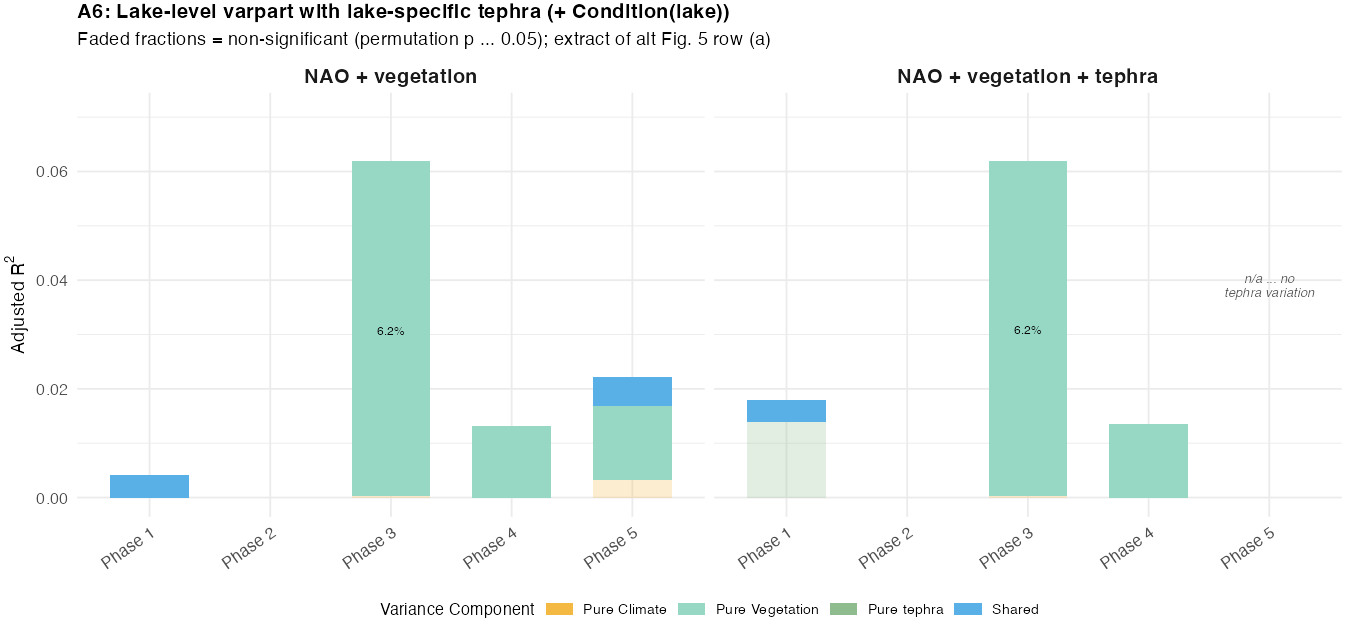
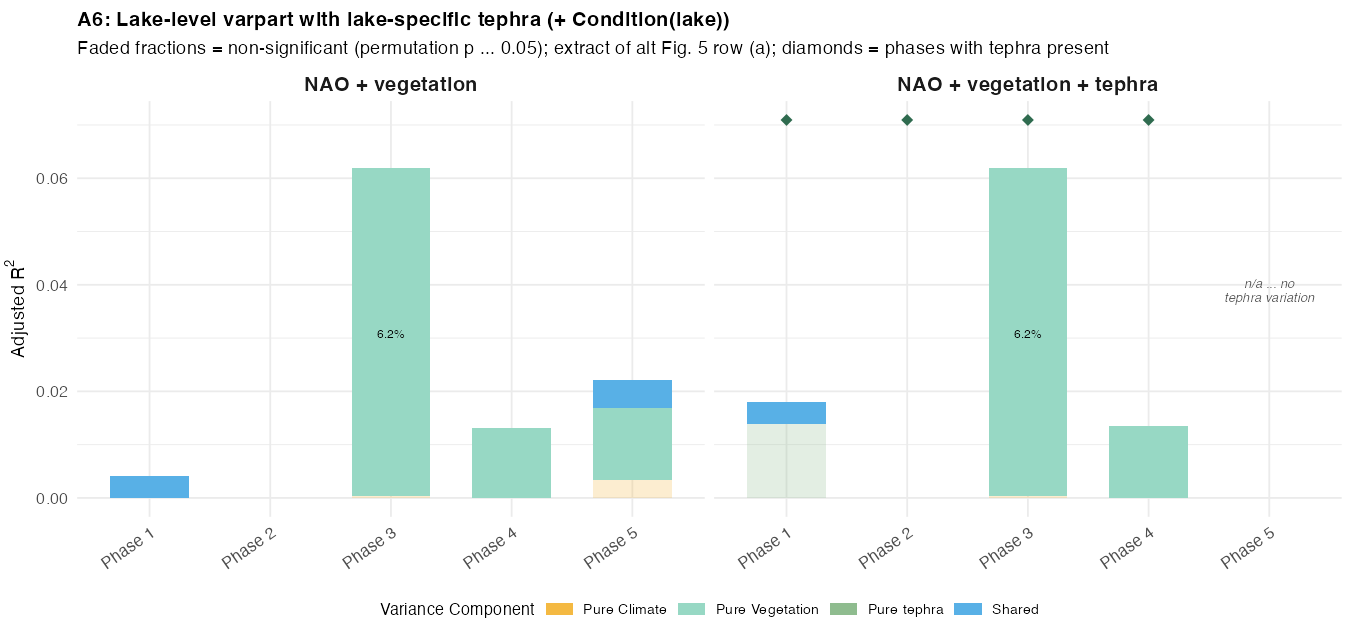
Mark tephra presence with top ticks instead of grey n/a bands.
Replace full-height invariant-tephra grey bars on A6 alt Fig. 5 with
right-panel presence markers (phase diamonds; age ticks) so empty panels
are not confused with null effects.

diff --git a/outputs/revision/REVISION_RESULTS_SUMMARY.md b/outputs/revision/REVISION_RESULTS_SUMMARY.md
@@ -127,12 +127,12 @@ Tephra inventory: **27 lake-specific** rows in `data/revision/tephra_events.csv`
 
 (Pure veg/NAO in these windows are NS.) This is a plausible **local volcanic signal before the main vegetation-change interval** in the Pico/Corvo/Prata–dominated early record; it does not overturn the later vegetation-dominated pattern (~1000–1400 CE).
 
-**Post-~1780 right-side gap:** windows with midpoints 1800, 1830, 1860 (n = 78–80 bins) have `tephra_prevalence = 0` / `tephra_varies = FALSE` and are **dropped** (NA, not a failed RDA fit). Midpoint 1770 still has one tephra-flagged bin (prev ≈ 0.013) and is estimable. Left-column late windows remain.
+**Post-~1780 right-side gap:** windows with midpoints 1800, 1830, 1860 (n = 78–80 bins) have `tephra_prevalence = 0` / `tephra_varies = FALSE` and are **dropped** (NA, not a failed RDA fit). Midpoint 1770 still has one tephra-flagged bin (prev ≈ 0.013) and is estimable. Left-column late windows remain. The figure marks tephra **presence** with ticks on the right panels (not grey n/a bands): panel (a) diamonds above phases with `tephra_prevalence > 0`; panels (b–c) tick marks at unique 30-yr bin centres where lake-specific `tephra = 1`. Phase 5 keeps a light italic “n/a” text label only (no full-height grey bar).
 
 **Interpretation (response letter / SI caption):**  
 This lake-level alternative Figure 5 places the standard NAO + vegetation partitioning (left) beside the same design with lake-specific tephra added (right), both after Condition(lake), so the tephra contrast is apples-to-apples rather than a regional-vs-lake comparison. Across historical phases where tephra varies (Phases 1–4), pure tephra is small: Phase 1 adj. R² ≈ 0.014 (p ≈ 0.066, NS); Phases 2–4 ≈ 0 (all NS). Pure vegetation remains the only significant unique fraction in Phases 3–4 and is essentially unchanged when tephra is included; Phase 5 (+tephra) is not estimable (no tephra variation after 1620 CE), so the empty right Phase 5 bar is “n/a”, not a null effect. Moving-window panels keep the vegetation-dominated interval (~1000–1400 CE) on both sides, but early windows (~480–660 CE) show significant pure-tephra fractions (adj. R² ≈ 0.037–0.049; p ≈ 0.031–0.045) consistent with a local volcanic signal before major vegetation change. Right-side windows after ~1780 are missing because tephra is invariant (dropped), not because fits failed. Magnitudes are smaller than published regional Figure 5 because Condition(lake) absorbs among-lake structure; compare left vs right within this figure. Overall, lake-specific volcanism does not reallocate the main NAO/vegetation chronology, but early tephra is not uniformly non-significant.
 
-Figures/tables: `outputs/revision/figures/A6_alt_figure5_standard_vs_tephra.png` (+ PDF), `A6_tephra_varpart.png` (phase-only extract of row a), `A6_varpart_tephra_sensitivity.csv`, `A6_varpart_delta.csv`, `A6_varpart_results_with_p.csv`, `A6_window_varpart.csv`, `A6_window_sig.csv`, `A6_alt_fig5_*.csv`, `A6_tephra_lake_bin_matrix.csv`, `A6_phase_sig_*.csv`  
+Figures/tables: `outputs/revision/figures/A6_alt_figure5_standard_vs_tephra.png` (+ PDF), `A6_tephra_varpart.png` (phase-only extract of row a), `A6_varpart_tephra_sensitivity.csv`, `A6_varpart_delta.csv`, `A6_varpart_results_with_p.csv`, `A6_window_varpart.csv`, `A6_window_sig.csv`, `A6_alt_fig5_*.csv`, `A6_tephra_lake_bin_matrix.csv`, `A6_tephra_presence_ages.csv`, `A6_phase_sig_*.csv`  
 Script: `scripts/revision/A06_volcanism_sensitivity.R`
 
 ---
